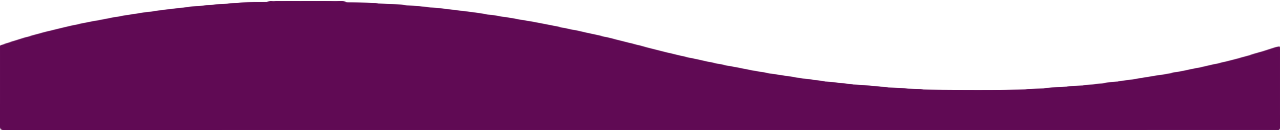
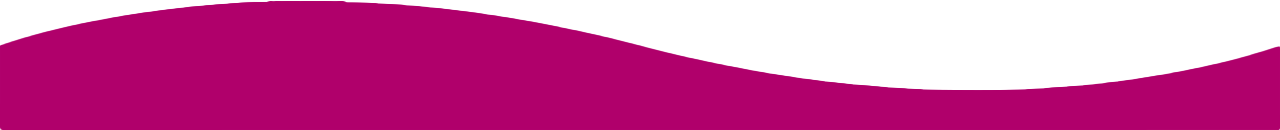
18/07/22--2

diff --git a/css/estilos.css b/css/estilos.css
@@ -550,7 +550,7 @@ footer {
     width: 100%;
     background: #ff4f8b;
 	background: #ff0145;
-	background: var(--purple-light);
+	background: #AF0069;
     min-height: 10rem;
     padding: 20px 50px;
     display: flex;
